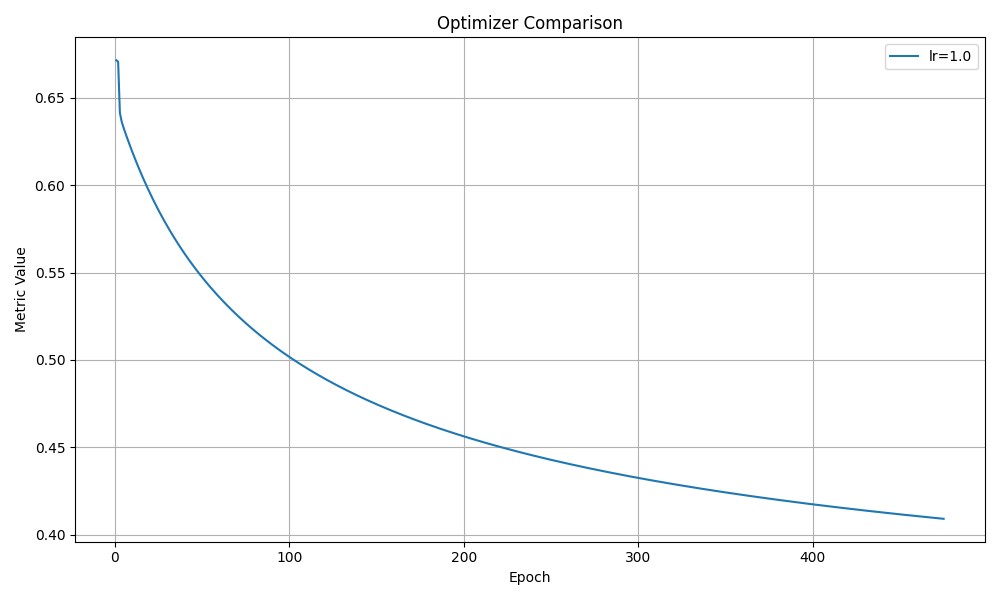
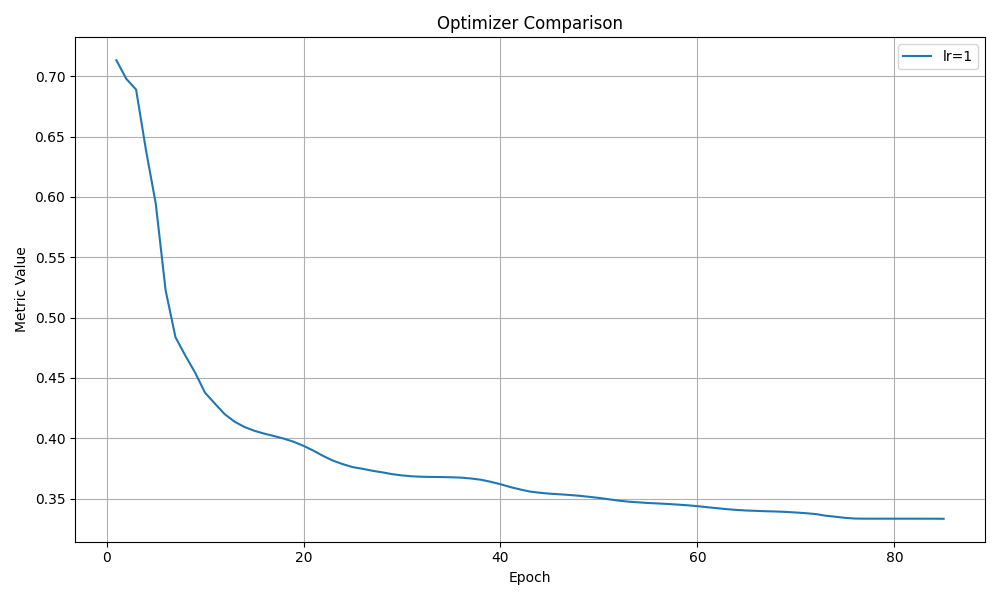
hoan thien newton

diff --git a/code/optimzer/optimzer.py b/code/optimzer/optimzer.py
@@ -60,59 +60,50 @@ class LineSearch(Optimzer):
             newton -> dk = -Hessian_k ^ -1 * gradient()f(x_k)
     '''
     
-    def __init__(self, model, loss_fn, direction="gd", lr=1, rho=0.5, c=1e-4, min_alpha=1e-8, max_iter=50, reuse_lr=True, cg_tol=1e-4, cg_maxiter=50):
+    def __init__(self, model, loss_fn, direction="gd", lr=1, rho=0.5, c=1e-4, min_alpha=1e-8, max_iter=50, reuse_lr=True):
         super().__init__(lr)
         self.model = model
         self.loss_fn = loss_fn
-        #self.hess_fn = hess_fn # tính đạo hàm bậc 2 phục vụ newton
         self.direction = direction
         self.rho = rho # độ co
         self.c = c 
-        self.min_alpha = min_alpha # nếu alpha quá nghỉ cũng dừng line-search
+        self.min_alpha = min_alpha # nếu alpha quá nhỏ cũng dừng line-search
         self.max_iter = max_iter
         self.reuse_lr = reuse_lr # cờ để thuật toán đánh dấu mỗi vòng lặp dùng lr config đầu hay dùng lr tối ưu vòng lặp trước
         self.last_alpha = lr
-        self.cg_tol = cg_tol
-        self.cg_maxiter = cg_maxiter
+
+        # phục vuh linse search của newton
+        self.B = None    # ma trận xấp xỉ nghịch đảo Hessian
+        self.prev_params = None
+        self.prev_grad = None
         
-        
-    # --- Gauss-Newton Hv product ---
-    def gauss_newton_hv(self, v):
-        flat_params = self.model.get_params()
-        y_pred = self.loss_fn.predicts.copy()
-        target = self.loss_fn.targets
-        eps = 1e-5
-
-        # Perturbation
-        self.model.set_params(flat_params + eps * v)
-        y_perturbed = self.model.forward(self.loss_fn.input)
-        Jv = (y_perturbed - y_pred) / eps
-
-        # Backprop qua loss
-        self.loss_fn.predicts = y_pred + Jv
-        grad_out = self.loss_fn.backward()
-        self.model.backward(grad_out)
-        Hv = self.model.get_grads().copy().ravel()
-
-        # Reset state
-        self.model.set_params(flat_params)
-        self.loss_fn.predicts = y_pred
-        self.loss_fn.targets = target
-        return Hv
     
         
-    def get_direction(self, grad):
+    def get_direction(self, grad, params):
         if self.direction == "gd":
             return -grad
+        
         elif self.direction == "newton":
-            Hv_func = lambda v: self.gauss_newton_hv(v)
+            n_params = grad.size
+            if self.B is None:
+                self.B = np.eye(n_params)
 
-            #if not is_gpu_enable:
-            lin_op = _linearOperator((grad.size, grad.size), matvec=Hv_func)
-            d, _ = _cg(lin_op, -grad, atol=self.cg_tol, maxiter=self.cg_maxiter)
-            #else:
-            #    lin_op = _cupy_linearOperator((grad.size, grad.size), matvec=Hv_func)
-            #    d, _ = _cupy_cg(lin_op, -grad, tol=self.cg_tol, maxiter=self.cg_maxiter)
+            # d = -B*g
+            d = -self.B.dot(grad)
+
+            # nếu có bước trước thì cập nhật BFGS
+            if self.prev_params is not None and self.prev_grad is not None:
+                s = (params - self.prev_params).reshape(-1, 1)
+                y = (grad - self.prev_grad).reshape(-1, 1)
+                ys = float(y.T @ s)
+
+                if ys > 1e-12:  # tránh chia 0
+                    I = np.eye(n_params)
+                    term1 = I - (s @ y.T) / ys
+                    term2 = I - (y @ s.T) / ys
+                    self.B = term1 @ self.B @ term2 + (s @ s.T) / ys
+                else:
+                    print("BFGS update skipped (y^T s quá nhỏ)")
 
             return d
         else:
@@ -146,27 +137,32 @@ class LineSearch(Optimzer):
     
     # --- Cập nhật tham số ---
     def update(self):
-        # --- 1. Tính loss hiện tại ---
+         # --- 1. Tính loss hiện tại ---
         f_x = self.loss_fn()
-        
+
         # --- 2. Forward & Backward để có gradient ---
         self.loss_fn.predicts = self.model.forward(self.loss_fn.input)
         grad_out = self.loss_fn.backward()
         self.model.backward(grad_out)
-        
-        # --- 3. Lấy gradient ---
+
+        # --- 3. Lấy gradient & params hiện tại ---
         g = self.model.get_grads().ravel()
-        
+        base_params = self.model.get_params().copy()
+
         # --- 4. Tính hướng đi ---
-        d = self.get_direction(g)
-        
-        # --- 5. Backtracking tìm alpha ---
+        d = self.get_direction(g,base_params)
+
+        # --- 5. Backtracking tìm alpha (trả params về base sau khi thử) ---
         alpha = self.backtracking(d, g)
+
+        # --- 6. Update params chính thức ---
+        self.model.set_params(base_params + alpha * d)
         
-        # --- 6. Update params ---
-        flat_params = self.model.get_params()
-        self.model.set_params(flat_params + alpha * d)
-        
+        # 7. Lưu state cho Quasi-Newton
+        if self.direction == "newton":
+            self.prev_params = base_params.copy()
+            self.prev_grad = g.copy()
+
         return alpha
     
     
@@ -265,7 +261,9 @@ class Adam(Optimzer):
         return param - self.lr * (m_hat /(np.sqrt(v_hat) + self.epsilon))
     
 
-
+""""
+triển khai thuật toán Newton bằng sử dụng Hessian-Vector Product (Hv product) để xấp xỉ ma trận H^-1
+để tham khảo có time sẽ check kĩ hơn
 class Newton(Optimzer):
     '''
     class triển khai thuật toán newton
@@ -343,5 +341,74 @@ class Newton(Optimzer):
         grads = self.model.get_grads()
 
         # Update params theo Newton step
+        new_params = self.update(params, grads)
+        model.set_params(new_params)
+"""
+
+class QuasiNewton(Optimzer):
+    '''
+    triển khai thuật toán giả newton Quasi(BFGS)
+    thay vì tính ma traanh Hessian ta thay thế H^-1 = B_k
+    với B_k bước đầu lấy bằng I 
+    sau từng bước lặp cập nhập lại B_k
+    '''
+
+    def __init__(self, model, loss_fn, lr=1.0, damping=1e-8):
+        super().__init__(lr)
+        self.model = model
+        self.loss_fn = loss_fn
+        self.damping = damping
+        self.B = None    # ma trận xấp xỉ nghịch đảo Hessian
+        self.prev_params = None
+        self.prev_grad = None
+
+
+    # --- Cập nhật tham số ---
+    def update(self, params, grad):
+        grad = grad.ravel()
+
+        n_params = grad.size
+        if self.B is None:
+            # Khởi tạo B = I
+            self.B = np.eye(n_params)
+
+        # Hướng đi: d = -B g
+        d = -self.B.dot(grad)
+
+        # Cập nhật tham số
+        new_params = params + self.lr * d
+
+        # Nếu có thông tin bước trước thì cập nhật BFGS
+        if self.prev_params is not None and self.prev_grad is not None:
+            s = (new_params - self.prev_params).reshape(-1, 1)
+            y = (grad - self.prev_grad).reshape(-1, 1)
+
+            ys = float(y.T @ s)
+            if ys > 1e-12:  # tránh chia 0
+                I = np.eye(n_params)
+                term1 = (I - (s @ y.T) / ys)
+                term2 = (I - (y @ s.T) / ys)
+                self.B = term1 @ self.B @ term2 + (s @ s.T) / ys
+            else:
+                print("BFGS update skipped (y^T s quá nhỏ)")
+
+        # Lưu lại cho lần sau
+        self.prev_params = new_params.copy()
+        self.prev_grad = grad.copy()
+
+        return new_params
+    
+
+    def step(self, model):
+        # Forward & Backward để có gradient
+        self.loss_fn.predicts = self.model.forward(self.loss_fn.input)
+        grad_out = self.loss_fn.backward()
+        self.model.backward(grad_out)
+
+        # Lấy params và grads
+        params = self.model.get_params()
+        grads = self.model.get_grads()
+
+        # Update params bằng Quasi-Newton
         new_params = self.update(params, grads)
         model.set_params(new_params)

diff --git a/code/main/main.py b/code/main/main.py
@@ -3,7 +3,7 @@ from optimzer_project.code.model.sequential import Model
 from optimzer_project.code.model.model import Dense
 from optimzer_project.code.model.model import Relu
 from optimzer_project.code.model.model import Sigmoid
-from optimzer_project.code.optimzer.optimzer import Momentum, GD, Adam, LineSearch, Newton
+from optimzer_project.code.optimzer.optimzer import Momentum, GD, Adam, LineSearch, QuasiNewton
 from optimzer_project.code.backend.backend import is_gpu_enable
 from optimzer_project.code.backend.utils import split_arrays, sigmoid_to_label, accuracy_score, plot_metrics_optmzer
 from optimzer_project.code.backend.backend import xp as np
@@ -38,9 +38,9 @@ def main(file_name_X, file_name_y, folder):
    
 
     #list_lr = [0.1, 0.2, 0.3, 0.4, 0.5, 0.6, 0.7, 0.8]
-    #list_lr = [0.2]#, 0.3]
+    list_lr = [1]#, 0.3]
     #list_lr = [0.1, 0.2, 0.3, 0.4, 0.5] #, 0.6, 0.7, 0.8]
-    list_lr = [1]
+    #list_lr = [0.01, 0.02, 0.03, 0.04, 0.05]
     # danh sách các thuật toán tối ưu
     optimizers = {
         #"Adam": Adam(),
@@ -56,15 +56,16 @@ def main(file_name_X, file_name_y, folder):
         #)
         "lineSearch": LineSearch(model=None, loss_fn=None,
                                 direction="newton", lr=1, rho=0.5, c=1e-4, min_alpha=1e-8, 
-                                max_iter=50, reuse_lr=True, cg_tol=1e-4, cg_maxiter=50)
+                               max_iter=50, reuse_lr=False)
         #"new_ton": Newton(model=None, loss_fn=None, lr=0.1, cg_tol=1e-4, cg_maxiter=50)
+        #"newton": QuasiNewton(model=None, loss_fn=None)
     }
     for name, optimizer in optimizers.items():
         dict_lr = {}
         dict_time_loss = {}
         for lr in list_lr :
             # tạo DataLoader
-            if name == "GD" or name == "lineSearch" or name == "new_ton": 
+            if name == "GD" or name == "lineSearch" or name == "newton": 
                 batch_size = 40000
             else:
                 batch_size = 4096
@@ -86,9 +87,12 @@ def main(file_name_X, file_name_y, folder):
             loss_warpper = LossWrapper(loss, model)
 
             # Gán model vào optimizer nếu cần (cho GD_Backtracking)
-            if hasattr(optimizer, 'model') and optimizer.model is None:
+            if hasattr(optimizer, 'model'):
                 optimizer.loss_fn = loss_warpper
                 optimizer.model = model
+                optimizer.prev_params = None
+                optimizer.prev_grad = None
+                optimizer.B = None
 
             # Khởi tạo trainer
             trainer = Trainer(
@@ -99,12 +103,13 @@ def main(file_name_X, file_name_y, folder):
                 loss=loss_warpper,
                 predict_fn=sigmoid_to_label,
                 accuracy_fn=accuracy_score,
-                epochs=2000
+                epochs=200
             )
 
             # Huấn luyện
             start_time = time.time()
             trainer.fit_line_search()
+            
             
             time_train = time.time() - start_time
             dict_time_loss.setdefault(lr, {})['time'] = time_train

diff --git a/code/model/trainer.py b/code/model/trainer.py
@@ -184,20 +184,20 @@ class Trainer:
 
             # --- Early stopping ---
             if epoch > start_epoch:
-                if abs(best_val_loss - train_loss) > min_delta:
+                if best_val_loss - train_loss > min_delta:
                     best_val_loss = train_loss
                     wait = 0
                 else:
                     wait += 1
-                    print(f"⚠ Train loss không cải thiện ({wait}/{patience})")
+                    print(f"Train loss không cải thiện ({wait}/{patience})")
 
                 # Kiểm tra gradient norm (model cần có get_total_grad_norm)
                 grad_norm = self.model.get_total_grad_norm()
                 if grad_norm < grad_threshold:
-                    print(f"⏹ Dừng sớm tại epoch {epoch+1} do gradient quá nhỏ: {grad_norm:.2e}")
+                    print(f"Dừng sớm tại epoch {epoch+1} do gradient quá nhỏ: {grad_norm:.2e}")
                     break
 
                 if wait >= patience:
-                    print(f"⏹ Dừng sớm tại epoch {epoch+1} do train loss không cải thiện sau {patience} epoch.")
+                    print(f"Dừng sớm tại epoch {epoch+1} do train loss không cải thiện sau {patience} epoch.")
                     break
         

diff --git a/code/pytorch/main.py b/code/pytorch/main.py
@@ -1,9 +1,12 @@
 '''
 file triển khai bài toán với pytorch phục vụ so sánh với code tự triển khai
+logistic đơn giản
 '''
 import torch.nn as nn
+import torch.optim as optim
+from torch.utils.data import TensorDataset, DataLoader
 
-class Pytorch(nn.Module):
+class Logistic(nn.Module):
 
     def __init__(self, input_dim, output_dim):
         self.input_dim = input_dim
@@ -11,5 +14,22 @@ class Pytorch(nn.Module):
         self.dense = nn.Linear(self.input_dim, self.output_dim)
         self.sigmoid = nn.Sigmoid()
     
+    def forward(self, x):
+        x = self.dense()
+        return self.sigmoid(x)
     
+def main(X_train, y_train):
 
+    batch_size = 40000
+
+    # loader data chuẩn bị train
+    dataset = TensorDataset(X_train, y_train)
+    dataloader = DataLoader(dataset, batch_size=batch_size)
+
+    # model
+    list_lr = [0.1, 0.2, 0.3, 0.4, 0.5]
+    for lr in list_lr:
+        model = Logistic(768,1)
+        loss = nn.BCELoss()
+        optimzer = optim.SGD(model.parameters(),lr=lr)
+        a = optim.
